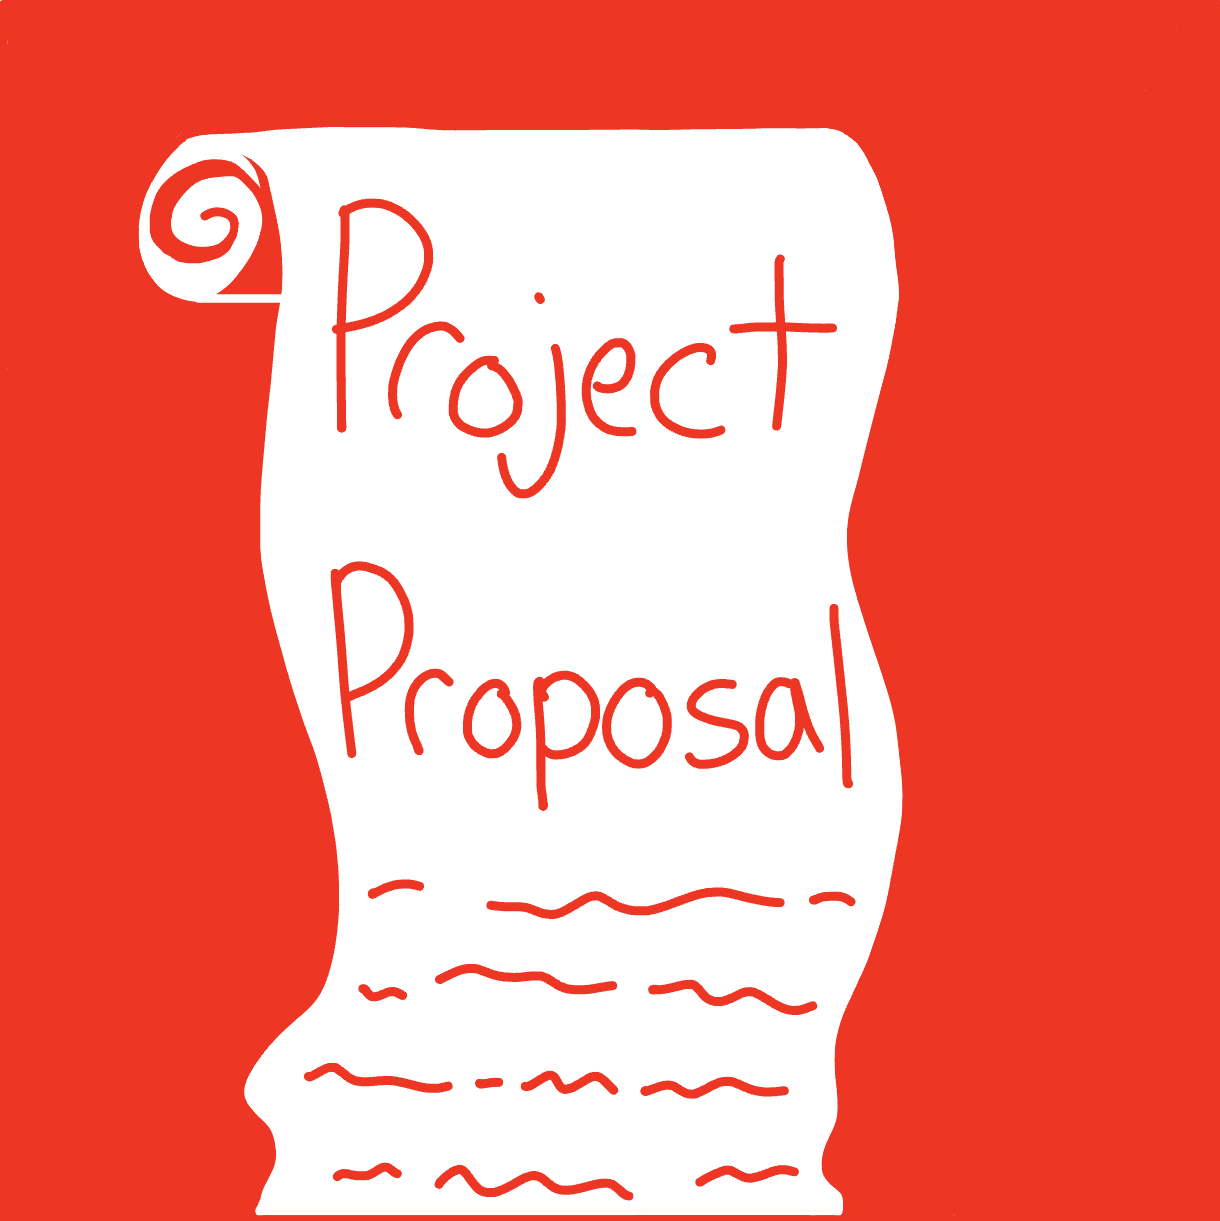
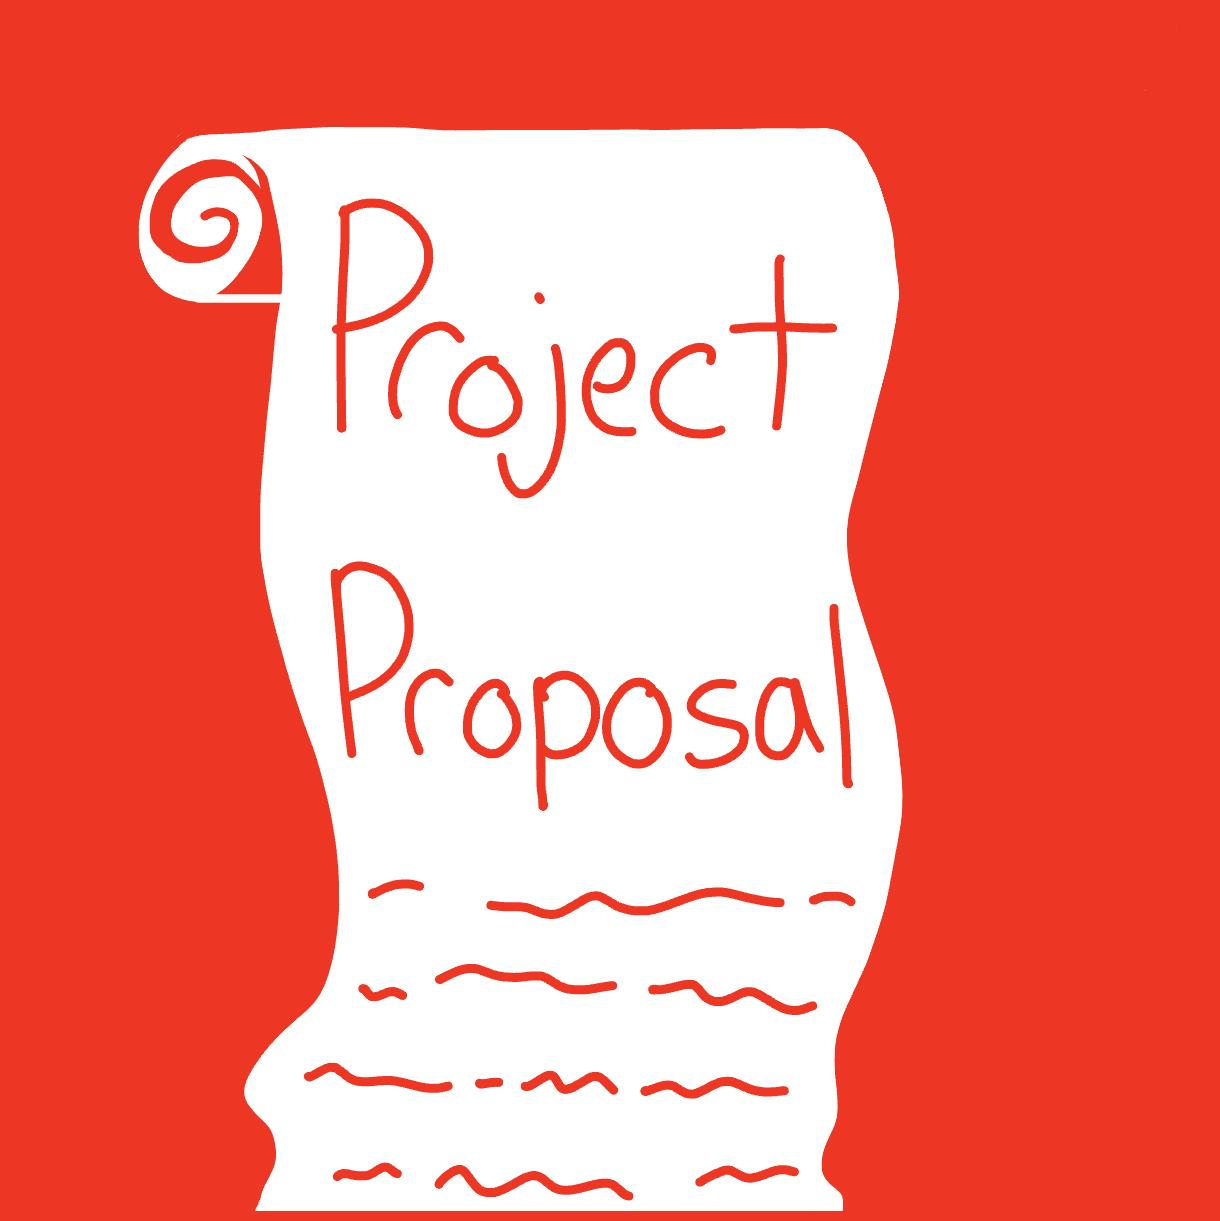
Made trivial changes to thumbnails on Timeline section

diff --git a/src/components/hackathon2025/Timeline.js b/src/components/hackathon2025/Timeline.js
@@ -15,31 +15,31 @@ let chips = [
         date: "March 19",
         weekday: "Wednesday",
         event: "Registration for the Hackathon began.",
-        icon: require("../../images/hack25/register.jpeg"),
+        icon: require("../../images/hack25/register_final.jpeg"),
     },
     {
         date: "April 18",
         weekday: "Friday",
         event: "Last day to register for the Hackathon.",
-        icon: require("../../images/hack25/lastday_swap.jpeg"),
+        icon: require("../../images/hack25/lastday_final.jpeg"),
     },
     {
         date: "April 21",
         weekday: "Monday",
         event: "Project proposal submissions open.",
-        icon: require("../../images/hack25/proposal.jpeg"),
+        icon: require("../../images/hack25/proposal_final.jpeg"),
     },
     {
         date: "April 25",
         weekday: "Friday",
         event: "Final deadline to submit project proposal.",
-        icon: require("../../images/hack25/projectdue.jpeg"),
+        icon: require("../../images/hack25/projectdue_final.jpeg"),
     },
     {
         date: "April 26",
         weekday: "Saturday",
         event: "The Hackathon will begin promptly at 9:00am.",
-        icon: require("../../images/hack25/hackathon.jpeg"),
+        icon: require("../../images/hack25/hackathon_final.jpeg"),
     },
 ];
 
@@ -50,14 +50,14 @@ export default function Timeline({headerStyle}){
             <p class="text-center text-2xl mt-6 p-2">
                 View the Hackathon Timeline below for more information about important dates and times.
             </p>
-            <div class="flex flex-row flex-wrap gap-x-6 gap-y-6 p-4 justify-center">
+            <div class="flex flex-row flex-wrap gap-x-3 gap-y-3 lg:gap-x-6 lg:gap-y-6 py-2 lg:p-4 justify-center">
                 {chips.map((chip) => (
-                    <InfoChip key={chip.date} bgcolor="bg-gray-200" textcolor="text-gray-900" otherstyle="h-full lg:w-1/6 lg:h-auto">
-                        <ChipTitle otherstyle="text-lg">{chip.weekday}</ChipTitle>
-                        <ChipTitle otherstyle="text-3xl">{chip.date}</ChipTitle>
+                    <InfoChip key={chip.date} bgcolor="bg-gray-200" textcolor="text-gray-900" otherstyle="h-full w-2/5 lg:w-1/6 lg:h-auto">
+                        <ChipTitle otherstyle="text-base lg:text-lg">{chip.weekday}</ChipTitle>
+                        <ChipTitle otherstyle="text-xl lg:text-3xl">{chip.date}</ChipTitle>
                         <ChipContent>
-                            {chip.event}
-                            <img src={chip.icon} class="w-[90%] mx-auto mt-2 border-2 border-[#ED3624]"/>
+                            <p class="text-base lg:text-lg">{chip.event}</p>
+                            <img src={chip.icon} className={`min-w-[75%] max-w-[90%] max-h-[35vh] mx-auto mt-2`}/>
                             <p class="text-xs text-center text-gray-400">img credit: Isabella King</p>
                         </ChipContent>
                         {/* <ChipButton bgcolor="bg-acm-blue" hovercolor="acm-orange" goal="register">

diff --git a/src/components/hackathon2025/Prizes.js b/src/components/hackathon2025/Prizes.js
@@ -7,7 +7,7 @@ export default function Prizes({headerStyle}) {
         <section id="prizes" class="pt-6 pb-12 items-center bg-gray-900 text-white lg:min-h-screen">
             <h1 className={`text-5xl font-bold text-center m-4 mb-8 ${headerStyle}`}>Prizes</h1>
             <p class="w-4/5 lg:w-2/3 mx-auto text-center">Participants who develop creative, high-impact projects, are eligible to receive the following prizes.</p>
-            <div className="grid grid-cols-1 sm:grid-cols-2 lg:grid-cols-3 lg:w-2/3 mx-auto justify-center gap-4 m-4">
+            <div className="grid grid-cols-2 lg:grid-cols-3 lg:w-2/3 mx-auto justify-center gap-4 m-4">
                 {prizes.map((prize) => (
                     <div key={prize.id} className="min-h-32 min-w-16 text-center text-gray-200 bg-gradient-to-r from-acm-orange to-acm-orange via-acm-yellow p-2 rounded-2xl flex flex-col items-center justify-center">
                         <img src={prize.photo} class="h-28 w-auto mx-auto mb-1 rounded-xl"></img>

diff --git a/colorswap.py b/colorswap.py
@@ -1,27 +1,47 @@
 from PIL import Image
 
-# Open the image
-img = Image.open("./src/images/hack25/proposal.jpeg").convert("RGB")
-pixels = img.load()
-
 # Define the red and white colors
 red = (237, 54, 36) # ED3624
 white = (255, 255, 255)
 
-# Swap colors
-for y in range(img.height):
-    for x in range(img.width):
-        px = pixels[x,y]
-        if px == red:
-            pixels[x,y] = white
-        elif px == white:
-            pixels[x,y] = red
-        else:
-            lerp = 1 - (px[0]-red[0])/18
-            r = red[0] + lerp * (white[0]-red[0])
-            g = red[1] + lerp * (white[1]-red[1])
-            b = red[2] + lerp * (white[2]-red[2])
-            pixels[x,y] = (int(r),int(g),int(b))
+# # Open the image
+# img = Image.open("./src/images/hack25/proposal.jpeg").convert("RGB")
+# pixels = img.load()
 
-# Save the result
-img.save("./src/images/hack25/proposal_swap.jpeg")
+# # Swap colors
+# for y in range(img.height):
+#     for x in range(img.width):
+#         px = pixels[x,y]
+#         if px == red:
+#             pixels[x,y] = white
+#         elif px == white:
+#             pixels[x,y] = red
+#         else:
+#             lerp = 1 - (px[0]-red[0])/18
+#             r = red[0] + lerp * (white[0]-red[0])
+#             g = red[1] + lerp * (white[1]-red[1])
+#             b = red[2] + lerp * (white[2]-red[2])
+#             pixels[x,y] = (int(r),int(g),int(b))
+
+# # Save the result
+# img.save("./src/images/hack25/proposal_swap.jpeg")
+
+thickness = 18
+
+def addRedBorder(imgname):
+    # Open the image
+    filename = f"./src/images/hack25/{imgname}.jpeg"
+    img = Image.open(filename).convert("RGB")
+    pixels = img.load()
+    for y in range(img.height):
+        for i in range(thickness):
+            pixels[i,y] = red
+            pixels[img.width-1-i,y] = red
+    for x in range(img.width):
+        for i in range(thickness):
+            pixels[x,i] = red
+            pixels[x,img.height-1-i] = red
+    img.save(f"./src/images/hack25/{imgname}_final.jpeg")
+
+for file in ["register","lastday","proposal","projectdue","hackathon"]:
+    addRedBorder(file)
